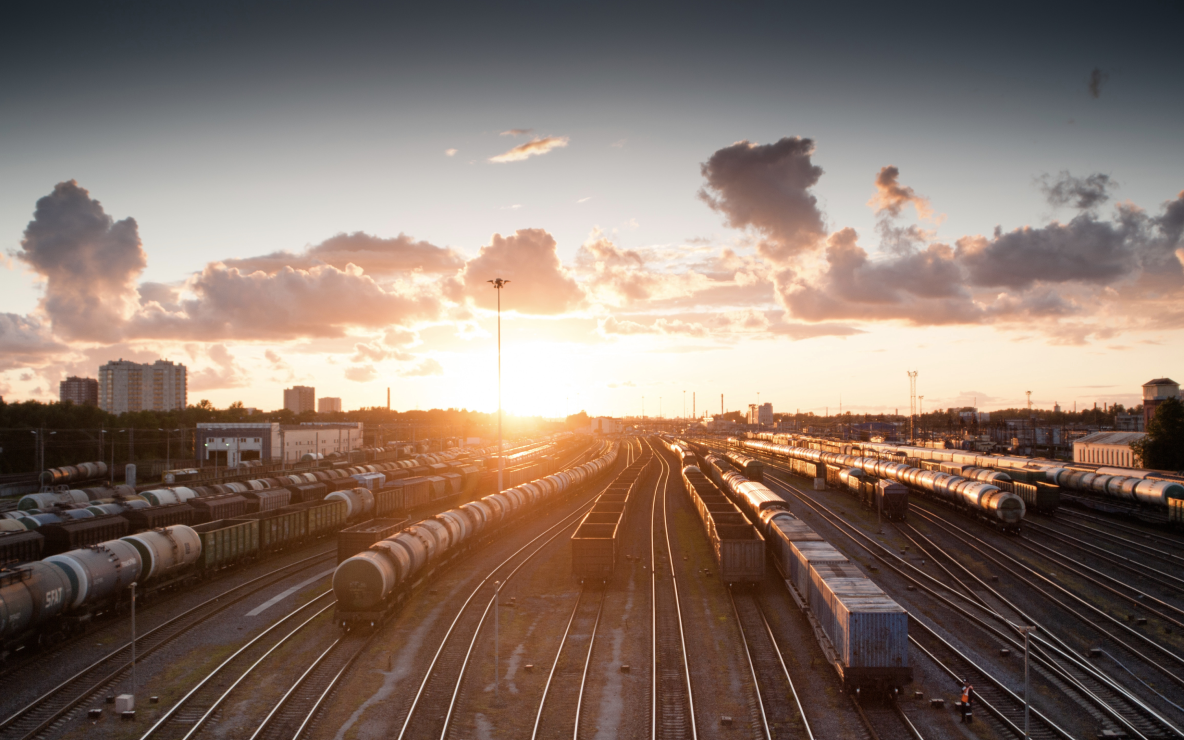
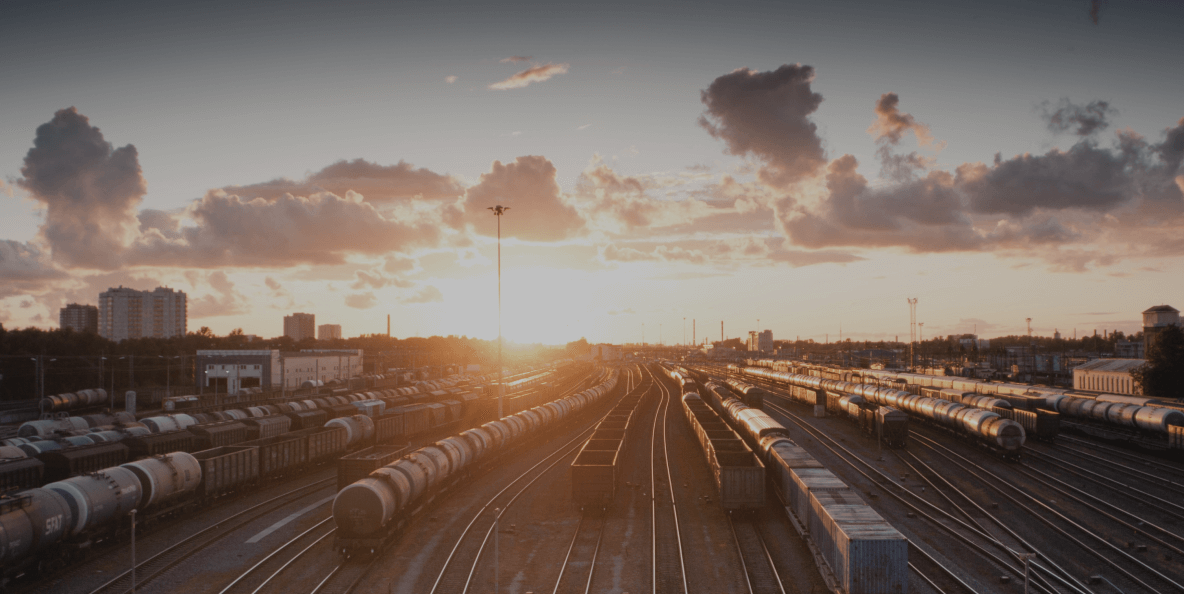
add footer (#6)
* add footer

* add footer content

* remove class

* mistakes fix

diff --git a/index.html b/index.html
@@ -220,6 +220,60 @@
       </p>
     </div>
   </section>
+
+  <a class="background-cover" href="https://stampsy.com/na-elektrichkakh-do-baikala">
+    <div class="text-cover">
+      <h2 class="cover-title">
+        До&nbsp;Байкала
+        &laquo;на&nbsp;собаках&raquo;
+      </h2>
+
+      <p class="cover-subtitle section-side-padding">
+        По&nbsp;мотивам учебной темы
+        о&nbsp;Транссибе&nbsp;&mdash; путешествие
+        от&nbsp;столицы до&nbsp;Байкала на&nbsp;электричках.
+      </p>
+    </div>
+  </a>
+
+  <footer>
+    <ul class="footer-cover section-side-padding">
+      <li>
+        <a class="text-cover" href="https://yandex.ru/maps" title="яндекс карты">
+          Карты
+        </a>
+      </li>
+
+      <li>
+        <a class="text-cover" href="https://yandex.ru/pogoda" title="яндекс погода">
+          Погода
+        </a>
+      </li>
+
+      <li>
+        <a class="text-cover" href="https://rasp.yandex.ru" title="яндекс расписание">
+          Расписание
+        </a>
+      </li>
+
+      <li>
+        <a class="text-cover" href="https://calendar.yandex.ru" title="яндекс календарь">
+          Календарь
+        </a>
+      </li>
+
+      <li>
+        <a class="text-cover" href="https://travel.yandex.ru" alt="яндекс путешествия">
+          Путешествия
+        </a>
+      </li>
+    </ul>
+
+    <div class="copyright-footer section-side-padding">
+      <p>© 2020. Rat-Magician</p>
+    </div>
+  </footer>
+
 </body>
 
 </html>

diff --git a/assets/styles/styles.css b/assets/styles/styles.css
@@ -156,3 +156,52 @@ header {
   line-height: 26px;
   padding-top: 32px;
 }
+
+.background-cover {
+  background: url("../images/train-to-baikal.png");
+  background-repeat: no-repeat;
+  text-decoration: none;
+  margin-top: 66px;
+  background-size: cover;
+  justify-content: center;
+  display: flex;
+}
+
+.footer-cover li:first-child a { 
+  padding-top: 0;
+}
+
+.text-cover {
+  display: block;
+  padding-top: 32px;
+  list-style: none;
+  text-align: center;
+  color: var(--white-1);
+  text-decoration: none;
+}
+
+.cover-title {
+  font-weight: 900;
+  font-size: 32px;
+  line-height: 35px;
+  padding-bottom: 16px;
+}
+
+.cover-subtitle {
+  font-size: 14px;
+  line-height: 16px;
+  padding-bottom: 33px;
+}
+
+.footer-cover {
+  list-style: none;
+  padding-top: 64px;
+  font-size: 24px;
+  text-align-last: left;
+}
+
+.copyright-footer {
+  font-size: 14px;
+  padding-top: 48px;
+  padding-bottom: 24px;
+}
